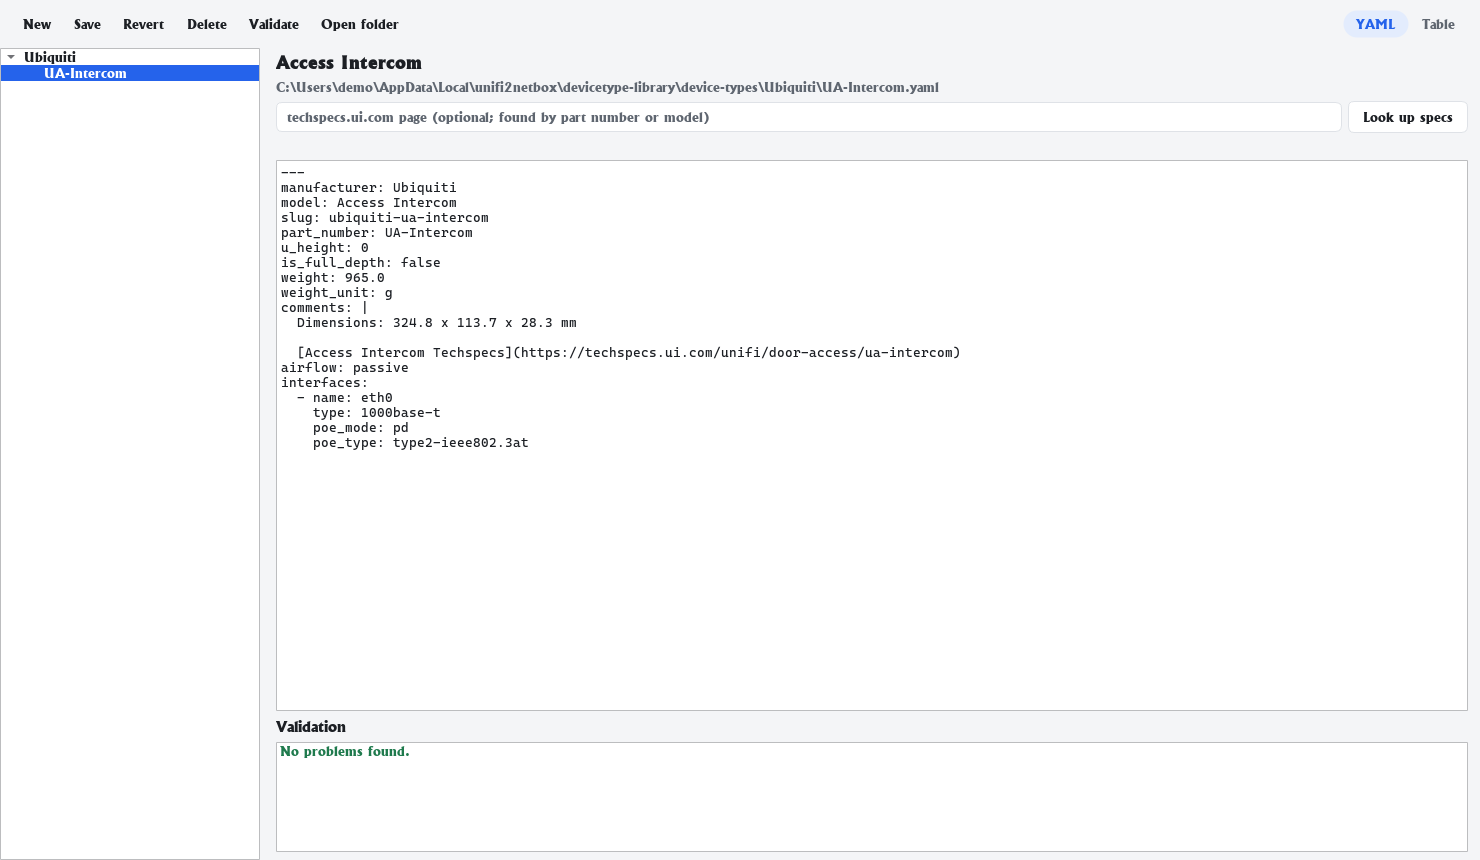
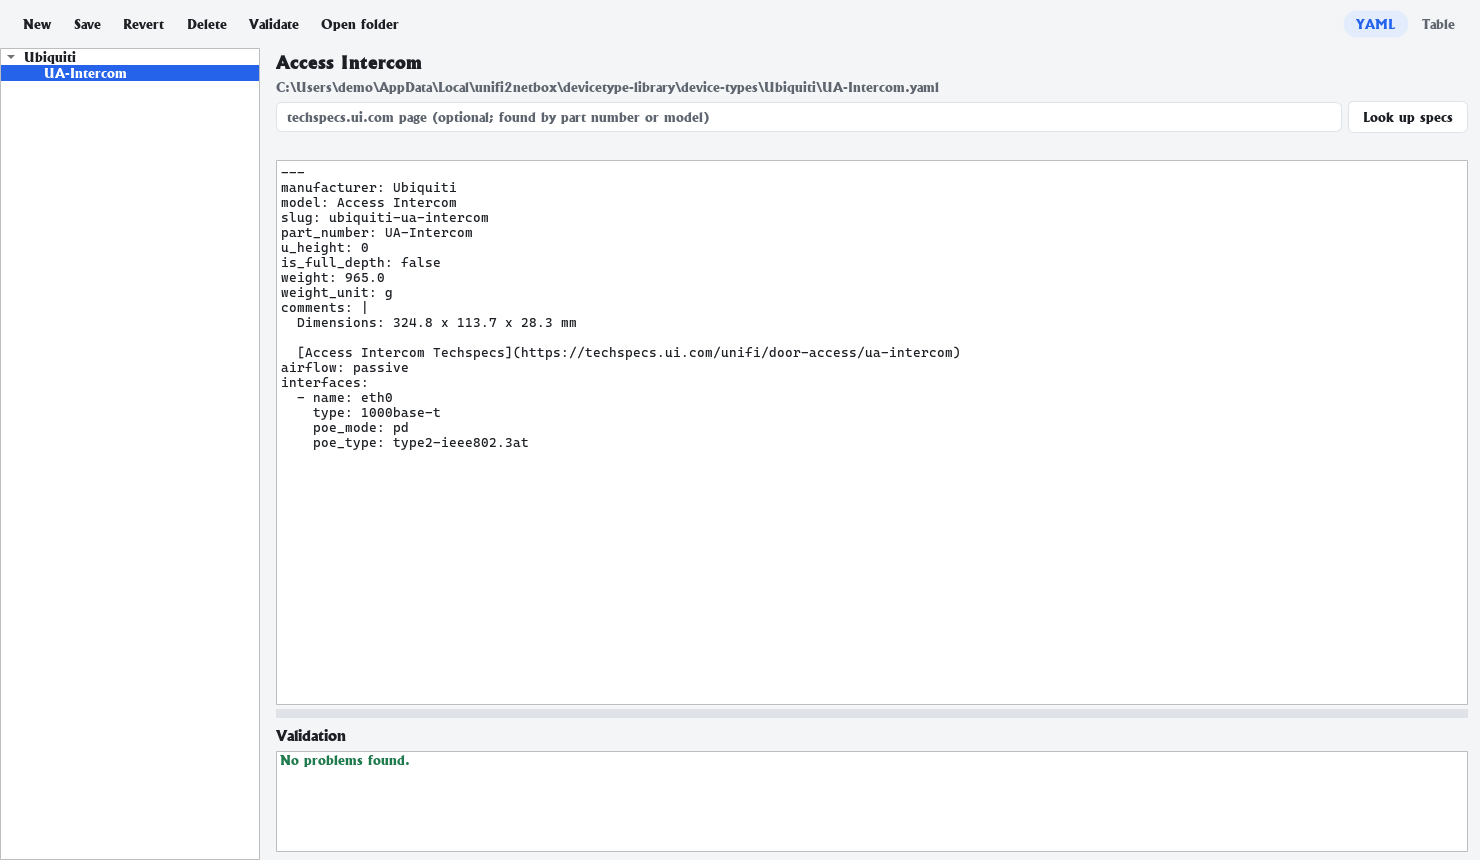
feat: make device type editor sections resizable and remembered
- Split Attributes, Comments, Components and Validation with drag lines
- Remember section heights, tree width and window geometry in [ui]
- Keep the other [ui] values when the theme is saved
- Bump version to 1.2.1

Changed region(s): [[0.1865, 0.8163, 0.9946, 0.907]]

diff --git a/src/unifi2netbox/gui_typeeditor.py b/src/unifi2netbox/gui_typeeditor.py
@@ -12,9 +12,10 @@ from __future__ import annotations
 
 import copy
 from collections.abc import Iterable
+from dataclasses import replace
 from pathlib import Path
 
-from PySide6.QtCore import Qt, QThreadPool, QUrl, Signal
+from PySide6.QtCore import QByteArray, Qt, QThreadPool, QUrl, Signal
 from PySide6.QtGui import QDesktopServices, QFontDatabase
 from PySide6.QtWidgets import (
     QAbstractItemView,
@@ -29,7 +30,6 @@ from PySide6.QtWidgets import (
     QMessageBox,
     QPlainTextEdit,
     QPushButton,
-    QScrollArea,
     QSplitter,
     QStackedWidget,
     QTableWidget,
@@ -43,7 +43,12 @@ from PySide6.QtWidgets import (
 from ruamel.yaml.comments import CommentedMap
 
 from unifi2netbox import theme
-from unifi2netbox.config import DeviceTypesConfig
+from unifi2netbox.config import (
+    ConfigError,
+    DeviceTypesConfig,
+    load_ui_config,
+    save_ui_config,
+)
 from unifi2netbox.devicetypes import (
     ATTRIBUTES,
     COLUMN_HELP,
@@ -67,6 +72,10 @@ from unifi2netbox.typedraft import merge_spec
 
 PATH_ROLE = Qt.ItemDataRole.UserRole + 1
 _TABLE_ATTRIBUTES = tuple(name for name in ATTRIBUTES if name != "comments")
+
+
+def _base64(data: QByteArray) -> str:
+    return bytes(data.toBase64()).decode("ascii")
 
 
 def _label(text: str, role: str = "") -> QLabel:
@@ -147,7 +156,7 @@ class ComponentTable(QWidget):
         layout.setContentsMargins(0, 6, 0, 0)
         self.table = QTableWidget(0, len(self.columns))
         self.table.setObjectName(f"component_{section}")
-        self.table.setMinimumHeight(170)
+        self.table.setMinimumHeight(60)
         self.table.setHorizontalHeaderLabels(
             [f"{c} *" if field_spec(section, c).required else c for c in self.columns]
         )
@@ -251,7 +260,7 @@ class TableView(QWidget):
             2, QHeaderView.ResizeMode.Stretch
         )
         self.attributes.setWordWrap(True)
-        self.attributes.setMinimumHeight(240)
+        self.attributes.setMinimumHeight(60)
         self.cells = _Cells(self.attributes)
         for row, name in enumerate(_TABLE_ATTRIBUTES):
             spec = field_spec(None, name)
@@ -266,7 +275,7 @@ class TableView(QWidget):
         self.comments = QPlainTextEdit()
         self.comments.setObjectName("typeComments")
         self.comments.setPlaceholderText(FIELD_HELP["comments"])
-        self.comments.setMaximumHeight(90)
+        self.comments.setMinimumHeight(40)
         self.comments.textChanged.connect(self.changed.emit)
         self.tabs = QTabWidget()
         self.tabs.setObjectName("typeComponents")
@@ -276,12 +285,24 @@ class TableView(QWidget):
             table.changed.connect(self._section_changed)
             self.sections[section] = table
             self.tabs.addTab(table, section)
-        layout.addWidget(_label("Attributes (* required)", "subheading"))
-        layout.addWidget(self.attributes, 2)
-        layout.addWidget(_label("Comments", "subheading"))
-        layout.addWidget(self.comments)
-        layout.addWidget(_label("Components", "subheading"))
-        layout.addWidget(self.tabs, 3)
+        # Attributes, comments and components: heights set by dragging.
+        self.splitter = QSplitter(Qt.Orientation.Vertical)
+        self.splitter.setObjectName("typeTableSplitter")
+        self.splitter.setChildrenCollapsible(False)
+        for title, widget, stretch in (
+            ("Attributes (* required)", self.attributes, 3),
+            ("Comments", self.comments, 1),
+            ("Components", self.tabs, 4),
+        ):
+            section = QWidget()
+            section_layout = QVBoxLayout(section)
+            section_layout.setContentsMargins(0, 4, 0, 0)
+            section_layout.addWidget(_label(title, "subheading"))
+            section_layout.addWidget(widget, 1)
+            self.splitter.addWidget(section)
+            self.splitter.setStretchFactor(self.splitter.count() - 1, stretch)
+        self.splitter.setSizes([280, 110, 330])
+        layout.addWidget(self.splitter)
         self.base = CommentedMap()
 
     def set_document(self, doc: CommentedMap) -> None:
@@ -355,8 +376,11 @@ class DeviceTypeEditor(QDialog):
         config: DeviceTypesConfig,
         pool: QThreadPool,
         parent: QWidget | None = None,
+        settings_path: Path | None = None,
     ) -> None:
         super().__init__(parent)
+        self.settings_path = settings_path
+        self._layout_restored = False
         self.setObjectName("typeEditor")
         self.setWindowTitle("Device types")
         self.setWindowFlag(Qt.WindowType.Window, True)
@@ -440,9 +464,6 @@ class DeviceTypeEditor(QDialog):
         self.stack = QStackedWidget()
         self.table_view = TableView()
         self.table_view.changed.connect(self._edited)
-        scroll = QScrollArea()
-        scroll.setWidgetResizable(True)
-        scroll.setWidget(self.table_view)
         self.yaml_view = QPlainTextEdit()
         self.yaml_view.setObjectName("typeYaml")
         self.yaml_view.setFont(
@@ -454,19 +475,38 @@ class DeviceTypeEditor(QDialog):
         )
         self.yaml_view.setLineWrapMode(QPlainTextEdit.LineWrapMode.NoWrap)
         self.yaml_view.textChanged.connect(self._edited)
-        self.stack.addWidget(scroll)
+        self.stack.addWidget(self.table_view)
         self.stack.addWidget(self.yaml_view)
-        right_layout.addWidget(self.stack, 1)
-        right_layout.addWidget(_label("Validation", "subheading"))
         self.issues = QListWidget()
         self.issues.setObjectName("typeIssues")
-        self.issues.setMaximumHeight(110)
-        right_layout.addWidget(self.issues)
+        self.issues.setMinimumHeight(40)
+        validation = QWidget()
+        validation_layout = QVBoxLayout(validation)
+        validation_layout.setContentsMargins(0, 4, 0, 0)
+        validation_layout.addWidget(_label("Validation", "subheading"))
+        validation_layout.addWidget(self.issues, 1)
+        self.right_splitter = QSplitter(Qt.Orientation.Vertical)
+        self.right_splitter.setObjectName("typeRightSplitter")
+        self.right_splitter.setChildrenCollapsible(False)
+        self.right_splitter.addWidget(self.stack)
+        self.right_splitter.addWidget(validation)
+        self.right_splitter.setStretchFactor(0, 1)
+        self.right_splitter.setSizes([620, 130])
+        right_layout.addWidget(self.right_splitter, 1)
         splitter.addWidget(self.tree)
         splitter.addWidget(right)
         splitter.setStretchFactor(1, 1)
         splitter.setSizes([260, 920])
+        splitter.setObjectName("typeTreeSplitter")
+        self.tree_splitter = splitter
         layout.addWidget(splitter, 1)
+        # Visible grab bars, so the section heights are obviously adjustable.
+        for item in (self.right_splitter, self.table_view.splitter):
+            item.setHandleWidth(9)
+            item.setStyleSheet(
+                "QSplitter::handle:vertical { background: palette(mid);"
+                " margin: 4px 0px; }"
+            )
         self.mode = "table"
         self.reload_tree()
         self._show_document(CommentedMap(), None, ("Choose a file or click New.",))
@@ -765,6 +805,56 @@ class DeviceTypeEditor(QDialog):
     def _sync_mode_buttons(self) -> None:
         self.yaml_button.setChecked(self.mode == "yaml")
         self.table_button.setChecked(self.mode == "table")
+
+    # -- window layout ---------------------------------------------------------
+
+    def splitters(self) -> tuple[QSplitter, ...]:
+        return (self.tree_splitter, self.right_splitter, self.table_view.splitter)
+
+    def restore_layout(self) -> None:
+        """Window geometry and section heights from ``[ui]``, if saved."""
+        self._layout_restored = True
+        if self.settings_path is None:
+            return
+        try:
+            ui = load_ui_config(self.settings_path)
+        except ConfigError:
+            return
+        if ui.type_editor_geometry:
+            self.restoreGeometry(
+                QByteArray.fromBase64(ui.type_editor_geometry.encode())
+            )
+        states = ui.type_editor_splitters.split(",") if ui.type_editor_splitters else []
+        for splitter, state in zip(self.splitters(), states, strict=False):
+            if state:
+                splitter.restoreState(QByteArray.fromBase64(state.encode()))
+
+    def save_layout(self) -> None:
+        if self.settings_path is None or not self._layout_restored:
+            return
+        try:
+            ui = load_ui_config(self.settings_path)
+            save_ui_config(
+                self.settings_path,
+                replace(
+                    ui,
+                    type_editor_geometry=_base64(self.saveGeometry()),
+                    type_editor_splitters=",".join(
+                        _base64(s.saveState()) for s in self.splitters()
+                    ),
+                ),
+            )
+        except ConfigError:
+            pass  # the layout is a convenience; never block closing
+
+    def showEvent(self, event) -> None:  # noqa: N802 - Qt override
+        if not self._layout_restored:
+            self.restore_layout()
+        super().showEvent(event)
+
+    def hideEvent(self, event) -> None:  # noqa: N802 - Qt override
+        self.save_layout()
+        super().hideEvent(event)
 
     def closeEvent(self, event) -> None:  # noqa: N802 - Qt override
         # Only a visible window asks; hidden ones (shutdown) just close.

diff --git a/tests/test_typeeditor.py b/tests/test_typeeditor.py
@@ -5,7 +5,7 @@ from pathlib import Path
 
 import pytest
 from PySide6.QtCore import QThreadPool
-from PySide6.QtWidgets import QComboBox, QMessageBox
+from PySide6.QtWidgets import QComboBox, QListWidget, QMessageBox
 
 from unifi2netbox.config import DeviceTypesConfig
 from unifi2netbox.devicetypes import LocalTypeStore, load_yaml, new_document
@@ -209,3 +209,50 @@ def test_header_turns_compact_when_narrow(qtbot, tmp_path):
     assert window.netbox_chip.compact and not window.app_title.isVisible()
     assert window.netbox_chip.text() == "●  NetBox"
     assert window.netbox_chip.toolTip().startswith("NetBox · Not set")
+
+
+def test_editor_remembers_window_and_section_sizes(qtbot, store, tmp_path):
+    from unifi2netbox.config import UiConfig, load_ui_config, save_ui_config
+
+    path = tmp_path / "config.toml"
+    save_ui_config(path, UiConfig(theme="dark"))
+    first = DeviceTypeEditor(
+        store, DeviceTypesConfig(), QThreadPool(), settings_path=path
+    )
+    qtbot.addWidget(first)
+    first.show()
+    first.resize(700, 520)
+    first.table_view.splitter.setSizes([120, 300, 200])
+    first.right_splitter.setSizes([400, 220])
+    sizes = first.table_view.splitter.sizes()
+    size = (first.width(), first.height())
+    first.close()
+
+    ui = load_ui_config(path)
+    assert ui.theme == "dark"
+    assert ui.type_editor_geometry and ui.type_editor_splitters.count(",") == 2
+
+    second = DeviceTypeEditor(
+        store, DeviceTypesConfig(), QThreadPool(), settings_path=path
+    )
+    qtbot.addWidget(second)
+    second.show()
+    assert (second.width(), second.height()) == size
+    assert second.table_view.splitter.sizes() == sizes
+    assert second.right_splitter.sizes()[1] == first.right_splitter.sizes()[1]
+
+
+def test_sections_are_resizable_splitters(editor):
+    from PySide6.QtWidgets import QSplitter
+
+    assert editor.table_view.splitter.count() == 3
+    assert not editor.table_view.splitter.childrenCollapsible()
+    assert isinstance(editor.right_splitter, QSplitter)
+    assert editor.right_splitter.widget(1).findChild(QListWidget, "typeIssues")
+
+
+def test_saved_layout_is_validated():
+    from unifi2netbox.config import ConfigError, UiConfig
+
+    with pytest.raises(ConfigError, match="layout"):
+        UiConfig(type_editor_geometry="not base64!")

diff --git a/src/unifi2netbox/gui.py b/src/unifi2netbox/gui.py
@@ -1,6 +1,6 @@
 import json
 from collections.abc import Callable
-from dataclasses import asdict, dataclass
+from dataclasses import asdict, dataclass, replace
 from datetime import datetime
 from importlib.metadata import version
 from pathlib import Path
@@ -1562,8 +1562,9 @@ class MainWindow(QMainWindow):
         app = QApplication.instance()
         if isinstance(app, QApplication):
             theme.apply_theme(app, theme.dark_for(choice))
-        self.ui = UiConfig(theme=choice)
         try:
+            # Keep the other [ui] values (for example the editor layout).
+            self.ui = replace(load_ui_config(self.path), theme=choice)
             save_ui_config(self.path, self.ui)
         except ConfigError as error:
             self.statusBar().showMessage(f"Theme not saved: {error}")
@@ -2514,7 +2515,13 @@ class MainWindow(QMainWindow):
                 editor.deleteLater()
                 editor = None
         if editor is None:
-            editor = DeviceTypeEditor(store, self.device_types_config, self.pool, self)
+            editor = DeviceTypeEditor(
+                store,
+                self.device_types_config,
+                self.pool,
+                self,
+                settings_path=self.path,
+            )
             self.type_editor = editor
             self._hook_editor(editor)
         editor.show()

diff --git a/src/unifi2netbox/config.py b/src/unifi2netbox/config.py
@@ -200,13 +200,26 @@ def local_type_folder(config: DeviceTypesConfig, config_path: Path) -> Path:
 THEME_CHOICES = ("system", "light", "dark")
 
 
+_LAYOUT_STATE = re.compile(r"[A-Za-z0-9+/=,]*")
+
+
 @dataclass(frozen=True)
 class UiConfig:
     theme: str = "system"
+    # Device type editor window: geometry and splitter states (Qt, base64).
+    type_editor_geometry: str = ""
+    type_editor_splitters: str = ""
 
     def __post_init__(self) -> None:
         if self.theme not in THEME_CHOICES:
             raise ConfigError("Theme must be system, light or dark.")
+        for value in (self.type_editor_geometry, self.type_editor_splitters):
+            if (
+                not isinstance(value, str)
+                or len(value) > 20000
+                or not _LAYOUT_STATE.fullmatch(value)
+            ):
+                raise ConfigError("Saved window layout is invalid.")
 
 
 def load_config(path: Path) -> NetBoxConfig:

diff --git a/docs/TESTING.md b/docs/TESTING.md
@@ -851,6 +851,13 @@ preview showed all three in sync, the other 157 objects still pending, and a
 second apply had nothing to write. The run is in the write history; the
 objects stay in NetBox as approved.
 
+On 2026-11-17 the assistant checked the resizable editor sections
+(application 1.2.1 working tree on `feature/editor-layout`): offline tests
+cover the three-section splitter, the validation splitter, restoring window
+size and section heights from `[ui]` and keeping them when the theme is
+saved; offscreen rendering shows the grab lines. Not checked on a real
+desktop with several screens.
+
 On 2026-11-16 the assistant checked M12 (application 1.1.9 working tree on
 `feature/device-types`) read-only against the live systems, nothing written:
 the devicetype-library index was read from GitHub (14,433 files, 455

diff --git a/manual/04-device-types/02-editor.md b/manual/04-device-types/02-editor.md
@@ -12,6 +12,11 @@ Open it with **Device types** in the header, **⋯ More > Device types...**, or
 - **Toolbar**: **New**, **Save**, **Revert**, **Delete** (asks first; local
   files only), **Validate** and **Open folder**.
 
+Drag the lines between Attributes, Comments, Components and Validation to
+change their heights, and the line next to the tree to change its width. The
+editor remembers these sizes and its window size and position for the next
+time.
+
 ## Table view
 
 - **Attributes**: one row per field with an explanation. Required fields are

diff --git a/CHANGELOG.md b/CHANGELOG.md
@@ -6,6 +6,13 @@ only on explicit user instruction. Documentation-only changes have no release ta
 
 ## Unreleased
 
+### Changed
+
+- Device type editor: the heights of Attributes, Comments, Components and
+	Validation are set by dragging the lines between them; the section
+	heights, the tree width and the window size and position are remembered
+	(`[ui]` in the configuration). Saving the theme keeps these values.
+
 ## v1.2.0
 
 ### Summary
